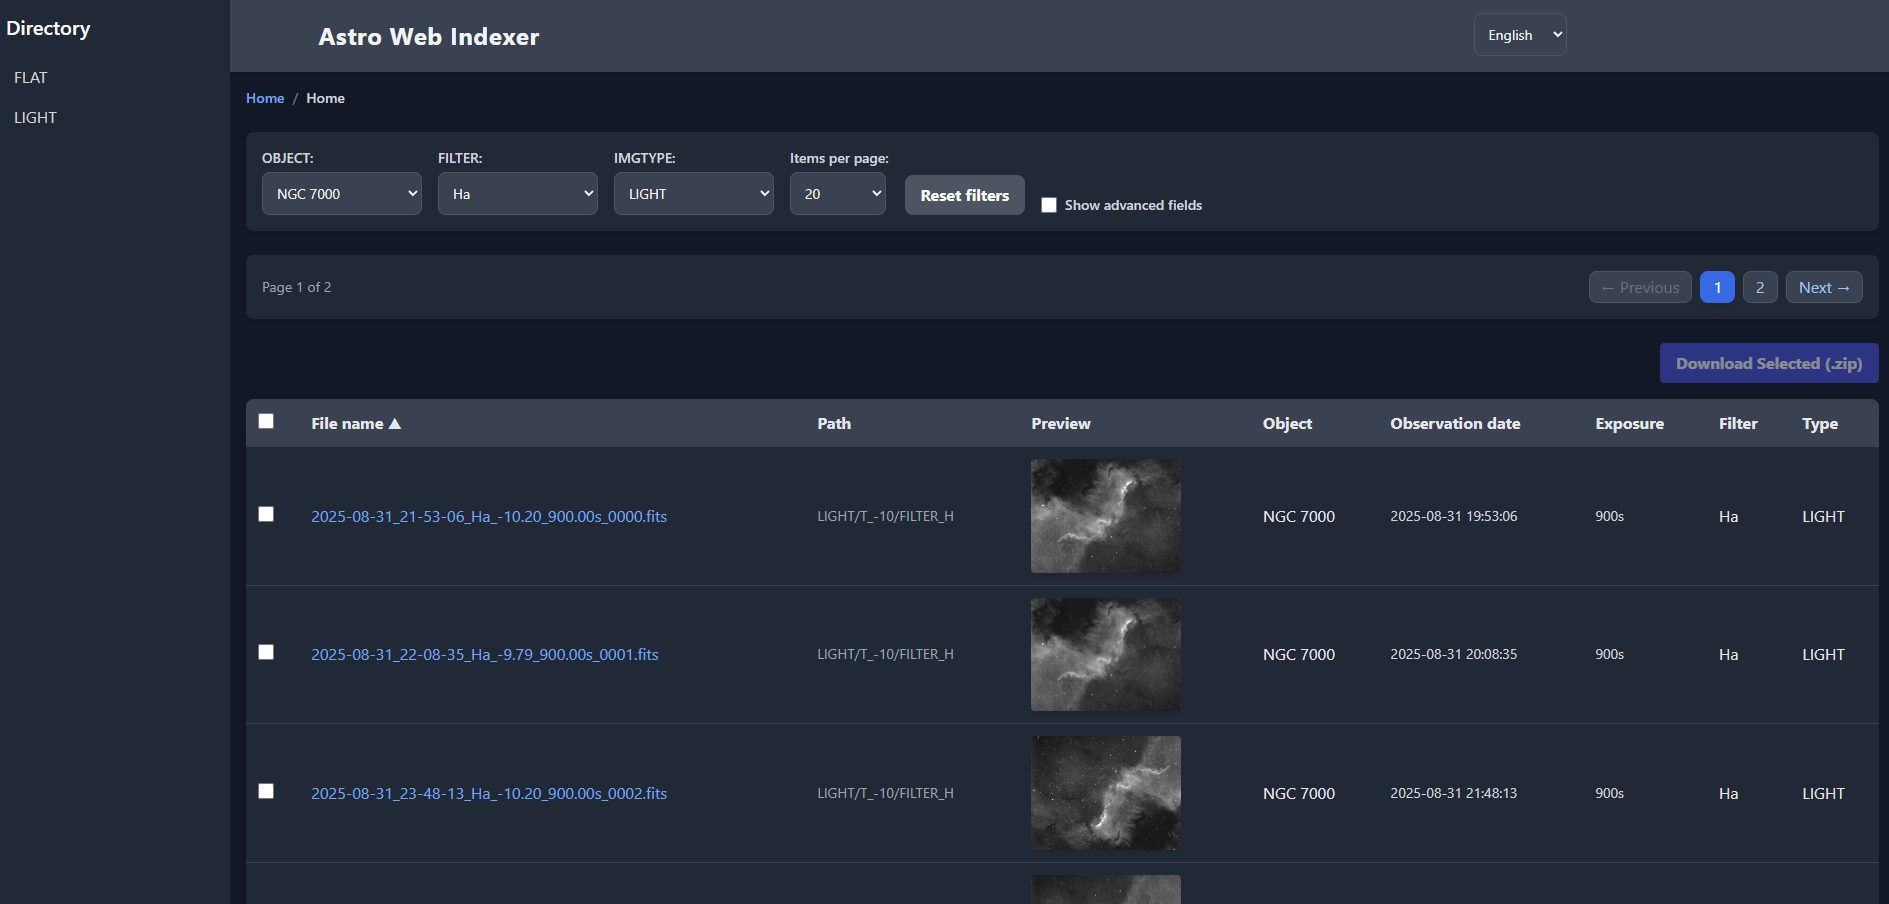
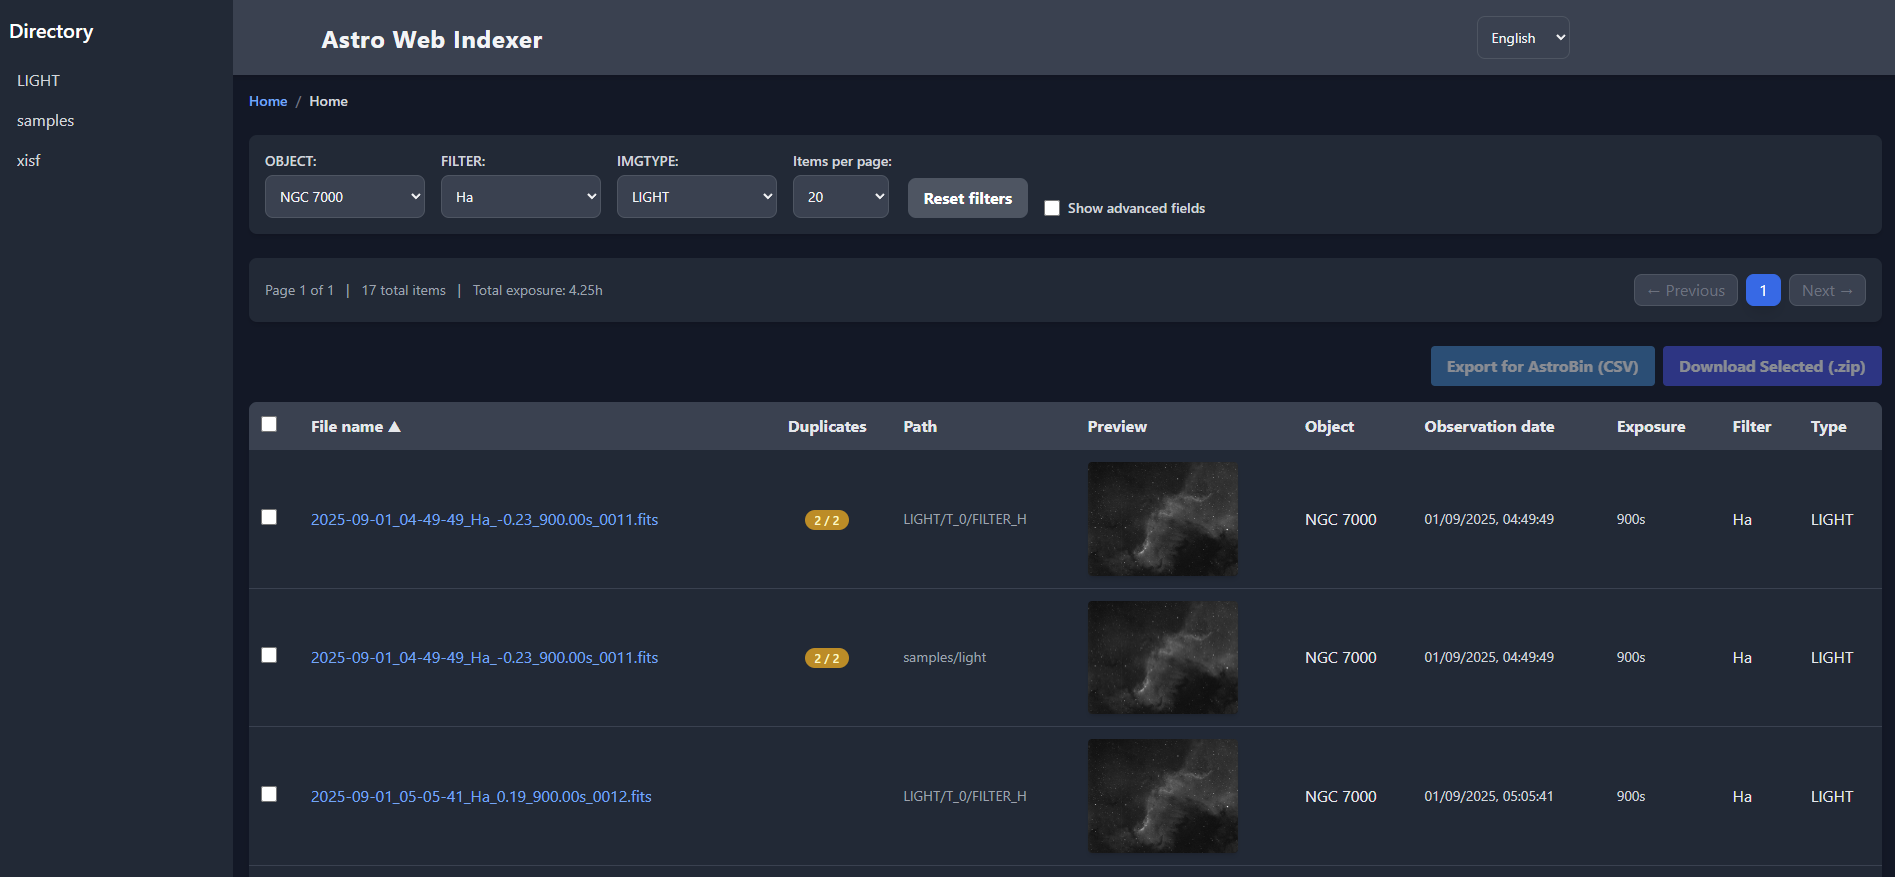
fixed filters and language reset

diff --git a/src/includes/sidebar.php b/src/includes/sidebar.php
@@ -8,17 +8,28 @@
     </div>
     
     <?php if ($dir !== ''):
-        $parent = dirname($dir);
+                $parent = dirname($dir);
         if ($parent === '.' || $parent === '/') $parent = '';
+        
+        // Build the query string, preserving existing GET parameters
+        $query_params = $_GET;
+        $query_params['dir'] = $parent;
+        $href = '?' . http_build_query($query_params);
     ?>
-        <a href="?dir=<?= urlencode($parent) ?>" class="flex items-center gap-2 p-2 hover:bg-gray-700 rounded-md text-blue-400 mb-2">
+        <a href="<?= htmlspecialchars($href) ?>" class="flex items-center gap-2 p-2 hover:bg-gray-700 rounded-md text-blue-400 mb-2">
             <svg class="w-5 h-5" fill="none" stroke="currentColor" viewBox="0 0 24 24" xmlns="http://www.w3.org/2000/svg"><path stroke-linecap="round" stroke-linejoin="round" stroke-width="2" d="M11 17l-5-5m0 0l5-5m-5 5h12"></path></svg>
             <?php echo __('back') ?>
         </a>
     <?php endif; ?>
-    <nav>
-        <?php foreach($folders as $f): ?>
-            <a href="?dir=<?= urlencode($dir === '' ? $f : $dir.'/'.$f) ?>" class="block p-2 text-gray-300 hover:bg-gray-700 rounded-md truncate">
+        <nav>
+        <?php foreach($folders as $f): 
+            // Build the query string for each folder link
+            $new_dir = ($dir === '' ? $f : $dir.'/'.$f);
+            $query_params = $_GET;
+            $query_params['dir'] = $new_dir;
+            $href = '?' . http_build_query($query_params);
+        ?>
+            <a href="<?= htmlspecialchars($href) ?>" class="block p-2 text-gray-300 hover:bg-gray-700 rounded-md truncate">
                 <?= htmlspecialchars($f) ?>
             </a>
         <?php endforeach; ?>

diff --git a/src/includes/filters.php b/src/includes/filters.php
@@ -56,7 +56,15 @@
         </select>
     </div>
     
-    <a href="?dir=<?= htmlspecialchars($dir) ?>" class="bg-gray-600 hover:bg-gray-700 text-white font-bold py-2 px-4 rounded-lg transition duration-200">
+        <?php
+        // Build a clean URL for the reset button, preserving only dir and lang
+        $reset_params = [
+            'dir' => $dir,
+            'lang' => $lang
+        ];
+        $reset_href = '?' . http_build_query($reset_params);
+    ?>
+    <a href="<?= htmlspecialchars($reset_href) ?>" class="bg-gray-600 hover:bg-gray-700 text-white font-bold py-2 px-4 rounded-lg transition duration-200">
         <?php echo __('reset_filters') ?>
     </a>
 

diff --git a/README.md b/README.md
@@ -86,10 +86,13 @@ cd astro-web-indexer
 cp .env.example .env
 ```
 
-3. Create the data directory for your FITS files:
-```bash
-mkdir -p data/fits
-```
+3. Prepare your FITS/XISF data directory.
+
+   By default, the application looks for images inside a `./data/fits` directory. If you want to use this default, create it now:
+   ```bash
+   mkdir -p data/fits
+   ```
+   **Alternatively**, if you already have an image folder, you can edit the `.env` file and set `FITS_DATA_PATH` to your custom path (e.g., `FITS_DATA_PATH=/path/to/my/images`). If you do this, you can skip the command above.
 
 4. Start the application by building the images:
 ```bash
